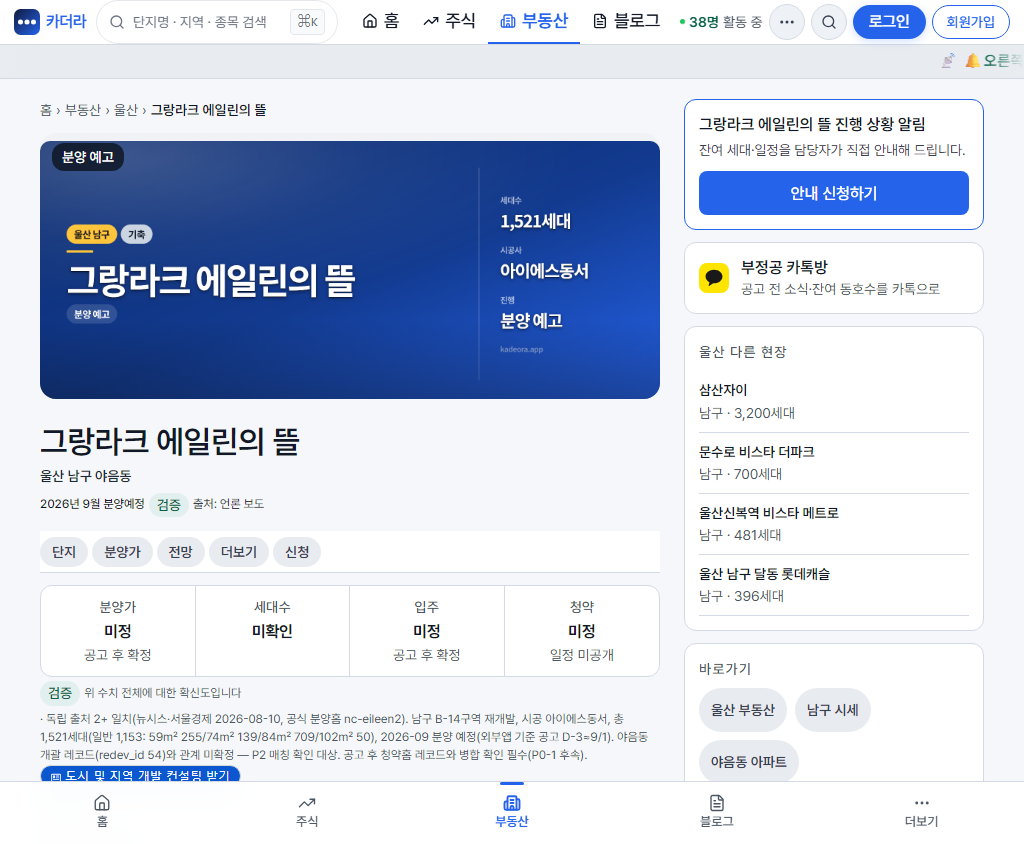
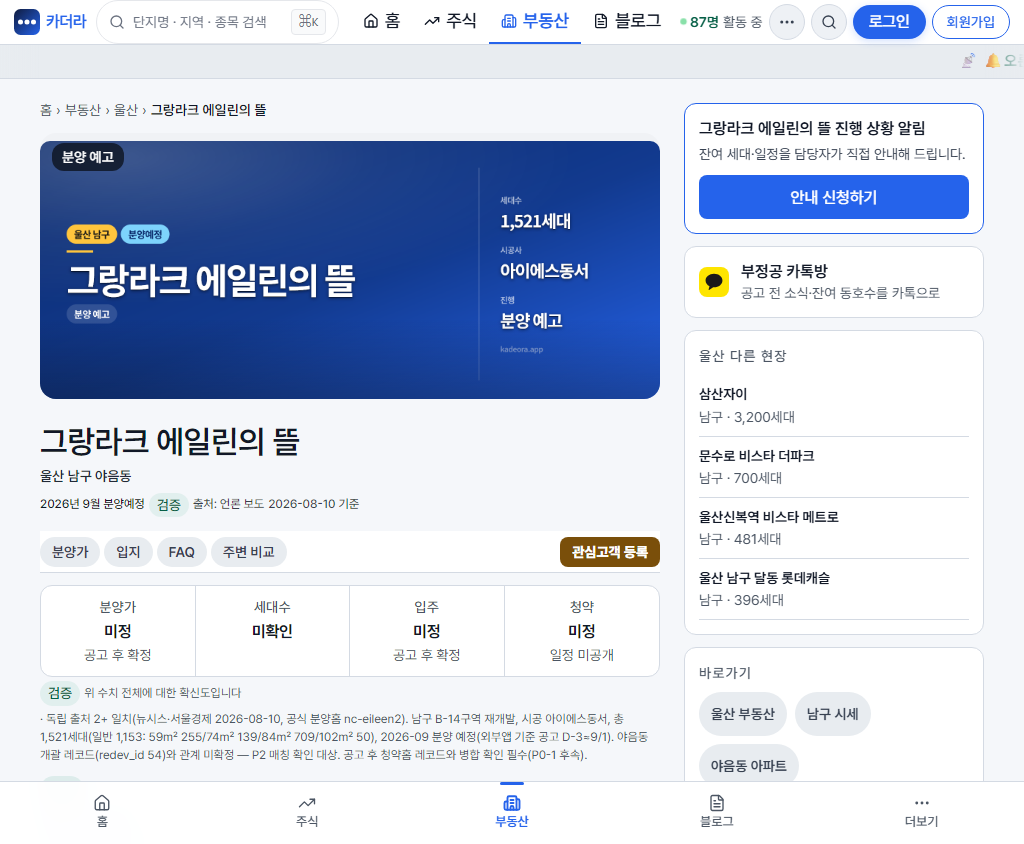
docs: 중단점 E 보고 — 실화면 실측 (지역 셀렉 + 상세 E + sticky 수리 4건)
이번 층의 가장 큰 발견은 «이 사이트의 sticky 가 전부 죽어 있었다» 는 것이다.
점프바 높이를 재려다 top -1,920 을 보고 조상 넷을 차례로 걷어냈다:
  main / html·body / article(모바일) 의 overflow-x:hidden → clip
  .kd-detail-rail 상자가 773px 에서 끝남 → align-self: stretch

⚠ U-1a 에서 「고쳤다」고 보고한 레일 정지선(118→103)은 «죽은 값» 이었다.
   그때 토큰만 재고 «붙는지» 를 재지 않았다. 이번에 대상을 직접 재서 드러났다.
   자가 맞아도 «대상이 죽어 있을 수» 있다.

수리 후 실측: 390·768·1280 전부 점프바 top 45 · 1280 레일 실제 top 103(토큰과 일치).
게이트 전종 초록(ds-6x6 108 · smoke 89 · b8 5폭 · contrast 12 · font-large).

Claude-Session: https://claude.ai/code/session_019iFeRmYUnjDWKYGsqdgKKp

diff --git a/docs/E_20260830.md b/docs/E_20260830.md
@@ -1,0 +1,154 @@
+# 중단점 E — 실화면 리뷰 요청 (2026-08-30 · 세션 B)
+
+> 형식은 중단점 D 와 같다. **주장 대신 실측**만 싣는다.
+> 배포 반영 확인 후 프로덕션(`https://kadeora.app`)에서 측정했다.
+
+---
+
+## 1. ⛔ 이번 층의 «가장 큰 발견» — 이 사이트의 sticky 는 전부 죽어 있었다
+
+점프바를 6칩으로 바꾸고 **높이가 그대로인지 재려다** 발견했다.
+스크롤 2,400px 지점에서 `.kd-jumpbar` 의 `top` 이 **-1,920** 이었다 — 화면 밖이다.
+`position: sticky; top: 45` 인데도 그렇다.
+
+원인은 «조상 넷» 이었다. 하나를 고칠 때마다 다음 것이 드러났다:
+
+| # | 요소 | 무엇이 | 왜 죽는가 |
+|---|---|---|---|
+| ① | `<main id="main-content">` | `overflow-x: hidden`(인라인) | main 이 **스크롤 컨테이너**가 된다 |
+| ② | `html, body` | `overflow-x: hidden` | 스크롤 상자가 문서 루트에서 body 로 옮겨 가 기준이 어긋난다 |
+| ③ | `article`(≤479.98px) | `overflow-x: hidden` | 모바일에서만 살아 있던 같은 병 |
+| ④ | `.kd-detail-rail` | 부모가 `align-items: start` | 상자가 **773px 에서 끝난다**. sticky 는 상자 안에서만 붙는다 |
+
+→ ①②③ 은 **`clip`** 으로 바꿨다. 가로를 «똑같이 잘라내면서» 스크롤 상자를 만들지 않는다.
+→ ④ 는 `align-self: stretch`. 배경·테두리 없는 상자라 시각 변화는 없다.
+
+> ⚠ **U-1a 에서 내가 「고쳤다」고 보고한 레일 정지선(118 → 103)은 «죽은 값» 이었다.**
+> 그때 나는 토큰 값만 쟀고 «붙는지» 는 재지 않았다. 이번에 대상을 직접 재서 드러났다.
+> — 「숫자를 고치기 전에 자를 고친다」의 다음 단계: **자가 맞아도 대상이 죽어 있을 수 있다.**
+
+⚠ Safari 16 미만은 `clip` 을 몰라 `visible` 로 떨어진다(자르지 않음).
+   ds-6x6 이 6폭 × 3모드 × 6페이지에서 넘침 0 을 상시 확인하므로 지금 방어 대상은 없다.
+
+### sticky 실측 (수리 후)
+| 폭 | 점프바 top | `--rail-top` | 레일 실제 top | 가로 넘침 |
+|---|---|---|---|---|
+| 390px | **45** ✅ | (모바일은 레일 없음) | — | 0 |
+| 768px | **45** ✅ | 61px(sticky) | 화면 밖 아님 | 0 |
+| 1280px | **45** ✅ | 103px(sticky) | **103** ✅ | 0 |
+
+**1280px 에서 레일이 멈추는 자리(103)가 토큰 값과 «정확히» 같다** — 이제 그 값이 실제로 쓰인다.
+
+---
+
+## 2. 지역 셀렉 (검색형) — 실화면 실측
+
+| 폭 | 그리드 열 | 시도 칸 | 병합 칸 | 하단 바 | 가로 넘침 |
+|---|---|---|---|---|---|
+| 390px | **3열** | 16 | 「광주·전남 예정 43」 | 전국 전체 · 분양예정 **1,258** · 분양중 **223** | 0 |
+| 768px | **4열** | 16 | 〃 | 〃 | 0 |
+| 1280px | **6열** | 16 | 〃 | 〃 | 0 |
+
+- 데이터는 **`lawd.ts` 에서 생성**한다. 시안 HTML 의 하드코딩을 복붙하지 않았다.
+- URL 직렬화는 라벨이 아니라 **코드 배열**(`?rg=11110,26350`) — 창원처럼 한 칩이 코드 5개인 자리가 있다.
+- 카운트는 집계 RPC `fn_region_sale_counts()` 실측이다(원행 1,481 > PostgREST 캡 1,000).
+
+### 시안과 «일부러 다르게» 간 것 3건
+| 시안 | 실제 | 근거 |
+|---|---|---|
+| 「전국 **17**개 시·도」 | **16개** | 광주·전남이 통합 코드(12) 하나다. 라벨을 데이터에 맞춘다(§2-2) |
+| 「**인기**」 칩 | 「**분양예정 많은 곳**」 | 「인기」는 이 저장소 금칙어다(§2-3 · smoke 검사). 손으로 적지 않고 세어서 뽑는다 |
+| 「**타입**·분양가」 | 「분양가」 | 화면에 **면적 타입표가 없다**. 세션 A 의 `pngtypGbNm` 이 붙으면 제목을 승격한다 |
+
+### ⛔ 숨기지 않은 것
+시군구가 확인되지 않은 현장(실측 **78건**)은 칩으로 고를 수 없다. 그 사실을 패널이 **말한다** —
+시도 칸의 수 = 칩 합 + 「그 외」라는 항등식을 테스트가 잠근다.
+
+---
+
+## 3. 상세 E — 서브내비 6칩 + 우측 CTA
+
+`일정 · 분양가 · 입지 · 검증 · FAQ · 주변 비교` + 「관심고객 등록」(골드 = 행동).
+- 칩의 `show` 는 **각 섹션의 렌더 조건과 같은 식**이다 — 갈리면 눌러도 아무 일 없는 칩이 된다.
+  (그랑라크 실측에서 5개만 보이는 것은 정상이다: `sub` 없음 → 「일정」, 진행 이력 0건 → 「검증」.)
+- 칩 줄은 가로 스크롤이라 CTA 를 그 «안» 에 두면 같이 밀려 나간다 → 스크롤 컨테이너를
+  `flex: 1` 로 두고 CTA 를 밖에 뒀다. 항상 보인다.
+- 바 높이는 **42px 그대로**다(칩이 늘어도 한 줄). 그래서 `--rail-top: 103` **동행 수정은 불필요**했다 —
+  실측으로 확인하고 «안 고쳤다».
+
+### ⛔ 「핵심 포인트」 섹션을 뺐다 — 실측이 근거다
+활성 6,033곳 · 칩 20,910개 · 고유 3,212종 전수:
+
+| 종류 | 개수 | 어디에 이미 있나 |
+|---|---|---|
+| 지역명(「경남 거제시」) | 5,199 | 히어로 브레드크럼 |
+| 시공사(「(주)대우건설 시공」) | 2,594 | 핵심 지표 |
+| 준공년(「2018년 준공」) | 2,137 | 핵심 지표 |
+| 실거래 N건 | 2,112 | 시세 섹션 |
+| **평가어** | 697 | **아무 데도 — 근거가 없다** |
+
+「지역 대표 단지」·「랜드마크」·「시세 기준점」이 **각 120개**인데,
+`landmark_active` 단계 **120건**과 정확히 일치한다 — 관측이 아니라 **단계에서 기계로 찍힌 평가 라벨**이다.
+n=1 짜리 1,609종도 전부 가격대·세대수·시공사명이라 이미 다른 섹션이 말한다.
+→ **이식할 고유 데이터가 없어** 이식이 아니라 제거다(판정 기준 ②).
+⚠ DB 컬럼은 지우지 않았다 — og-apt 카드가 상위 3개를 쓰고 `content_score` 가 배열 길이를 쓴다.
+
+---
+
+## 4. 게이트 전종 (프로덕션 실측)
+
+| 게이트 | 결과 |
+|---|---|
+| `ds-6x6` | **108검사 0실패** — 6폭 × 3모드 × 6페이지, 가로 넘침 0 |
+| `smoke` | **89검사 0실패** / 예정 경고 3(`/feed`) |
+| `b8-widths` | **전부 통과**(5폭, 상세 URL) |
+| `contrast-audit` | 12검사 0실패 / 안건 대기 3(toss 스킨 C-5, 종전과 동일) |
+| `font-large-guard` | 전부 통과 |
+| `token-snapshot` | 기준선 `docs/gates/token-baseline.txt` 등재분과 대조 가능 |
+| `lead-form-probe` | 검증이 막고, 막힌 동안 리드 전송 0건 |
+| `detail-sticky-audit` | **신설** — 위 §1 표 |
+
+### 6폭 × 3모드 (ds-6x6)
+```
+        default    font-small  font-large
+ 390px  6/6 ✅     6/6 ✅      6/6 ✅
+ 480px  6/6 ✅     6/6 ✅      6/6 ✅
+ 700px  6/6 ✅     6/6 ✅      6/6 ✅
+ 768px  6/6 ✅     6/6 ✅      6/6 ✅
+1024px  6/6 ✅     6/6 ✅      6/6 ✅
+1280px  6/6 ✅     6/6 ✅      6/6 ✅
+```
+
+### 터치 감사 — 이원 체계 기준 «측정만» (⛔ 아무것도 올리지 않았다)
+| 경로 | default | font-small | font-large |
+|---|---|---|---|
+| `/` | 3 · gap 4 | 3 · 4 | 3 · 5 |
+| `/apt` | **3** · 5 | 3 · 5 | 3 · 5 |
+| `/blog` | 7 · 4 | 7 · 4 | 7 · 6 |
+| `/apt/그랑라크` | 15 · 2 | 17 · 2 | 7 · 2 |
+| `/apt/대연 푸르지오` | 21 · 2 | 24 · 2 | 13 · 2 |
+
+⚠ `/apt` 가 **0 → 3** 으로 늘었다. 셀렉을 붙여서가 아니다 —
+   허브 RPC 를 고쳐 **청약 카드가 실제로 렌더되기 시작**했고(상호작용 자식 31 → 54),
+   그 카드 안의 요소들이 새로 잡힌 것이다. 「없던 결함이 생긴」 것이 아니라
+   **원래 있었는데 화면이 비어서 못 보던 것**이다.
+
+---
+
+## 5. 이번 층에서 «안 한» 것 (되풀이 금지)
+
+| 항목 | 왜 |
+|---|---|
+| E 안의 섹션 **순서 재배치**(일정 → 타입·분양가 → 입지 → 검증 → FAQ → 주변 비교) | 현행 8섹션을 6으로 병합·이동하는 일은 2,600줄 파일에서 «블록 대이동» 이다. 서브내비·CTA·제거 판정을 먼저 세우고 순서는 다음 소커밋으로 나눈다 |
+| 「일정」 섹션 **신설·통합** | 지금 일정이 히어로·공급표·모집공고 요약에 흩어져 있다. 모으는 것은 «무엇을 일정이라 부를지» 판정이 먼저다 |
+| 면적 타입표 화면 연결 | 세션 A 가 원천(`pngtypGbNm`)을 막 확보했다. 그쪽 적재가 선행이다 |
+| `key_features` DB 컬럼 삭제 | og-apt·content_score 가 쓴다. 화면에서만 뺐다 |
+
+---
+
+## 6. 리뷰 요청
+
+- **눈 검사**: 상세(그랑라크·대연 푸르지오)에서 ① 점프바가 스크롤 내내 붙어 있는지
+  ② 1280px 에서 우측 레일이 «본문 끝까지» 따라오는지 ③ 「관심고객 등록」이 항상 보이는지.
+- **판정 필요**: §5 의 「일정 섹션을 무엇으로 정의할지」 — 청약 접수일정만인지,
+  입주예정·모델하우스까지 묶을지. 이 판정이 있어야 순서 재배치를 한 번에 끝낼 수 있다.
